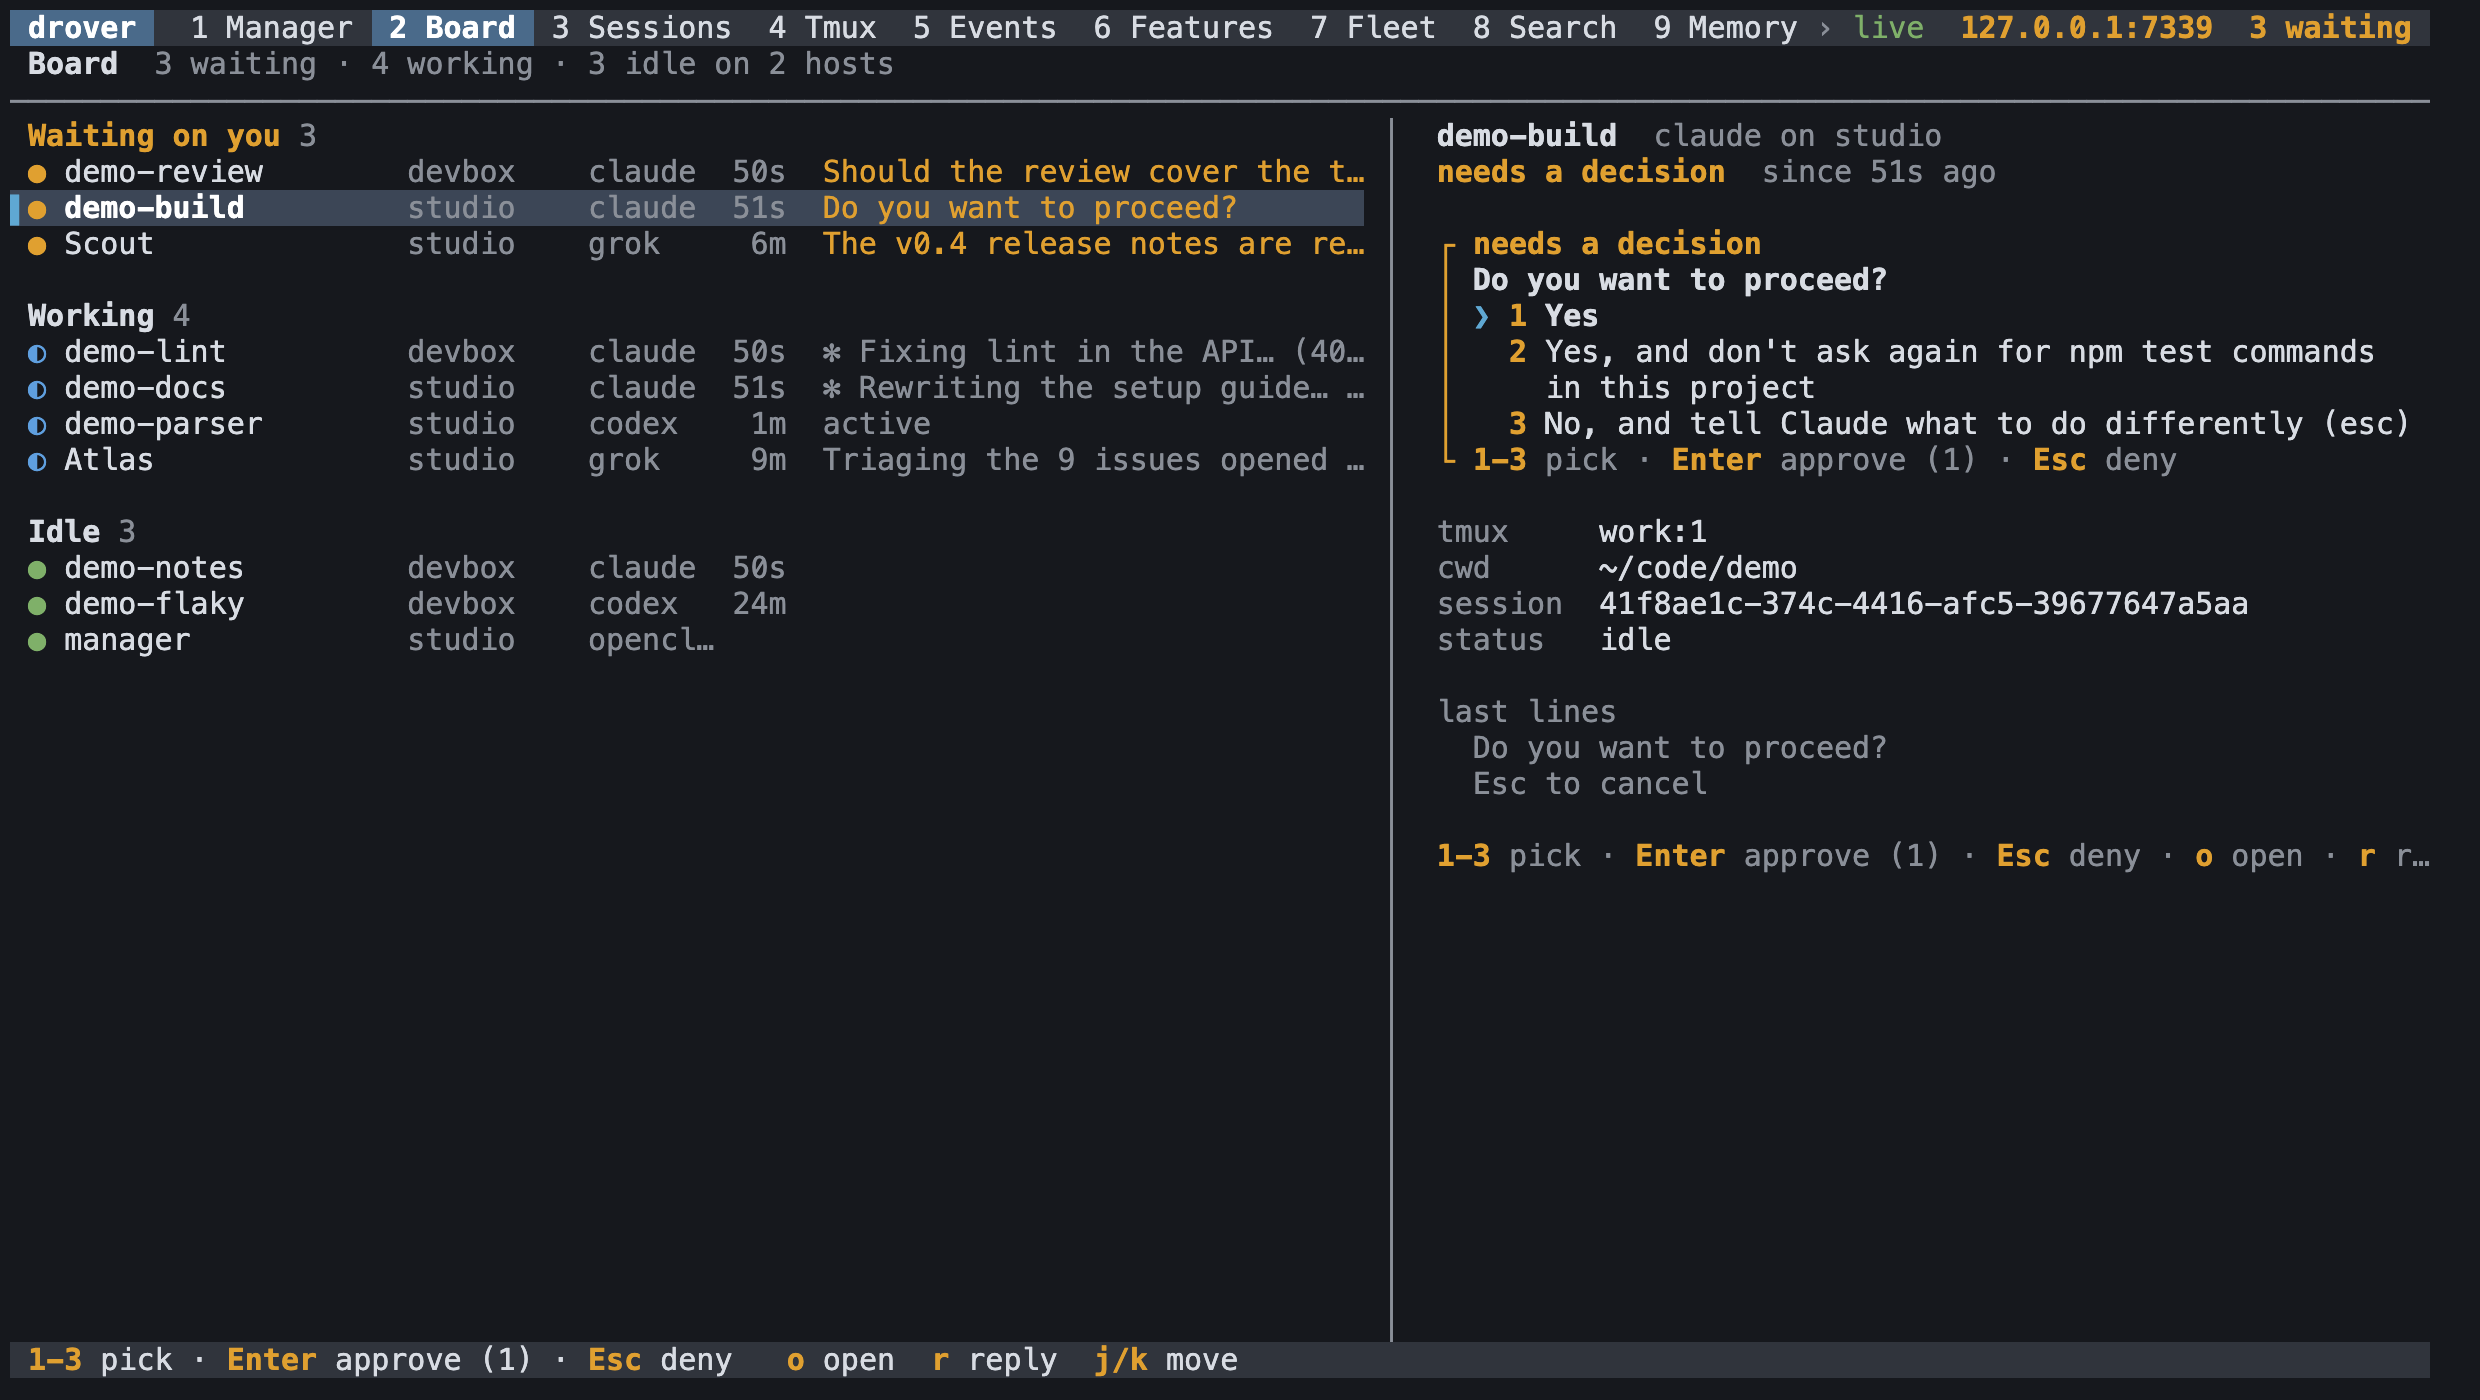
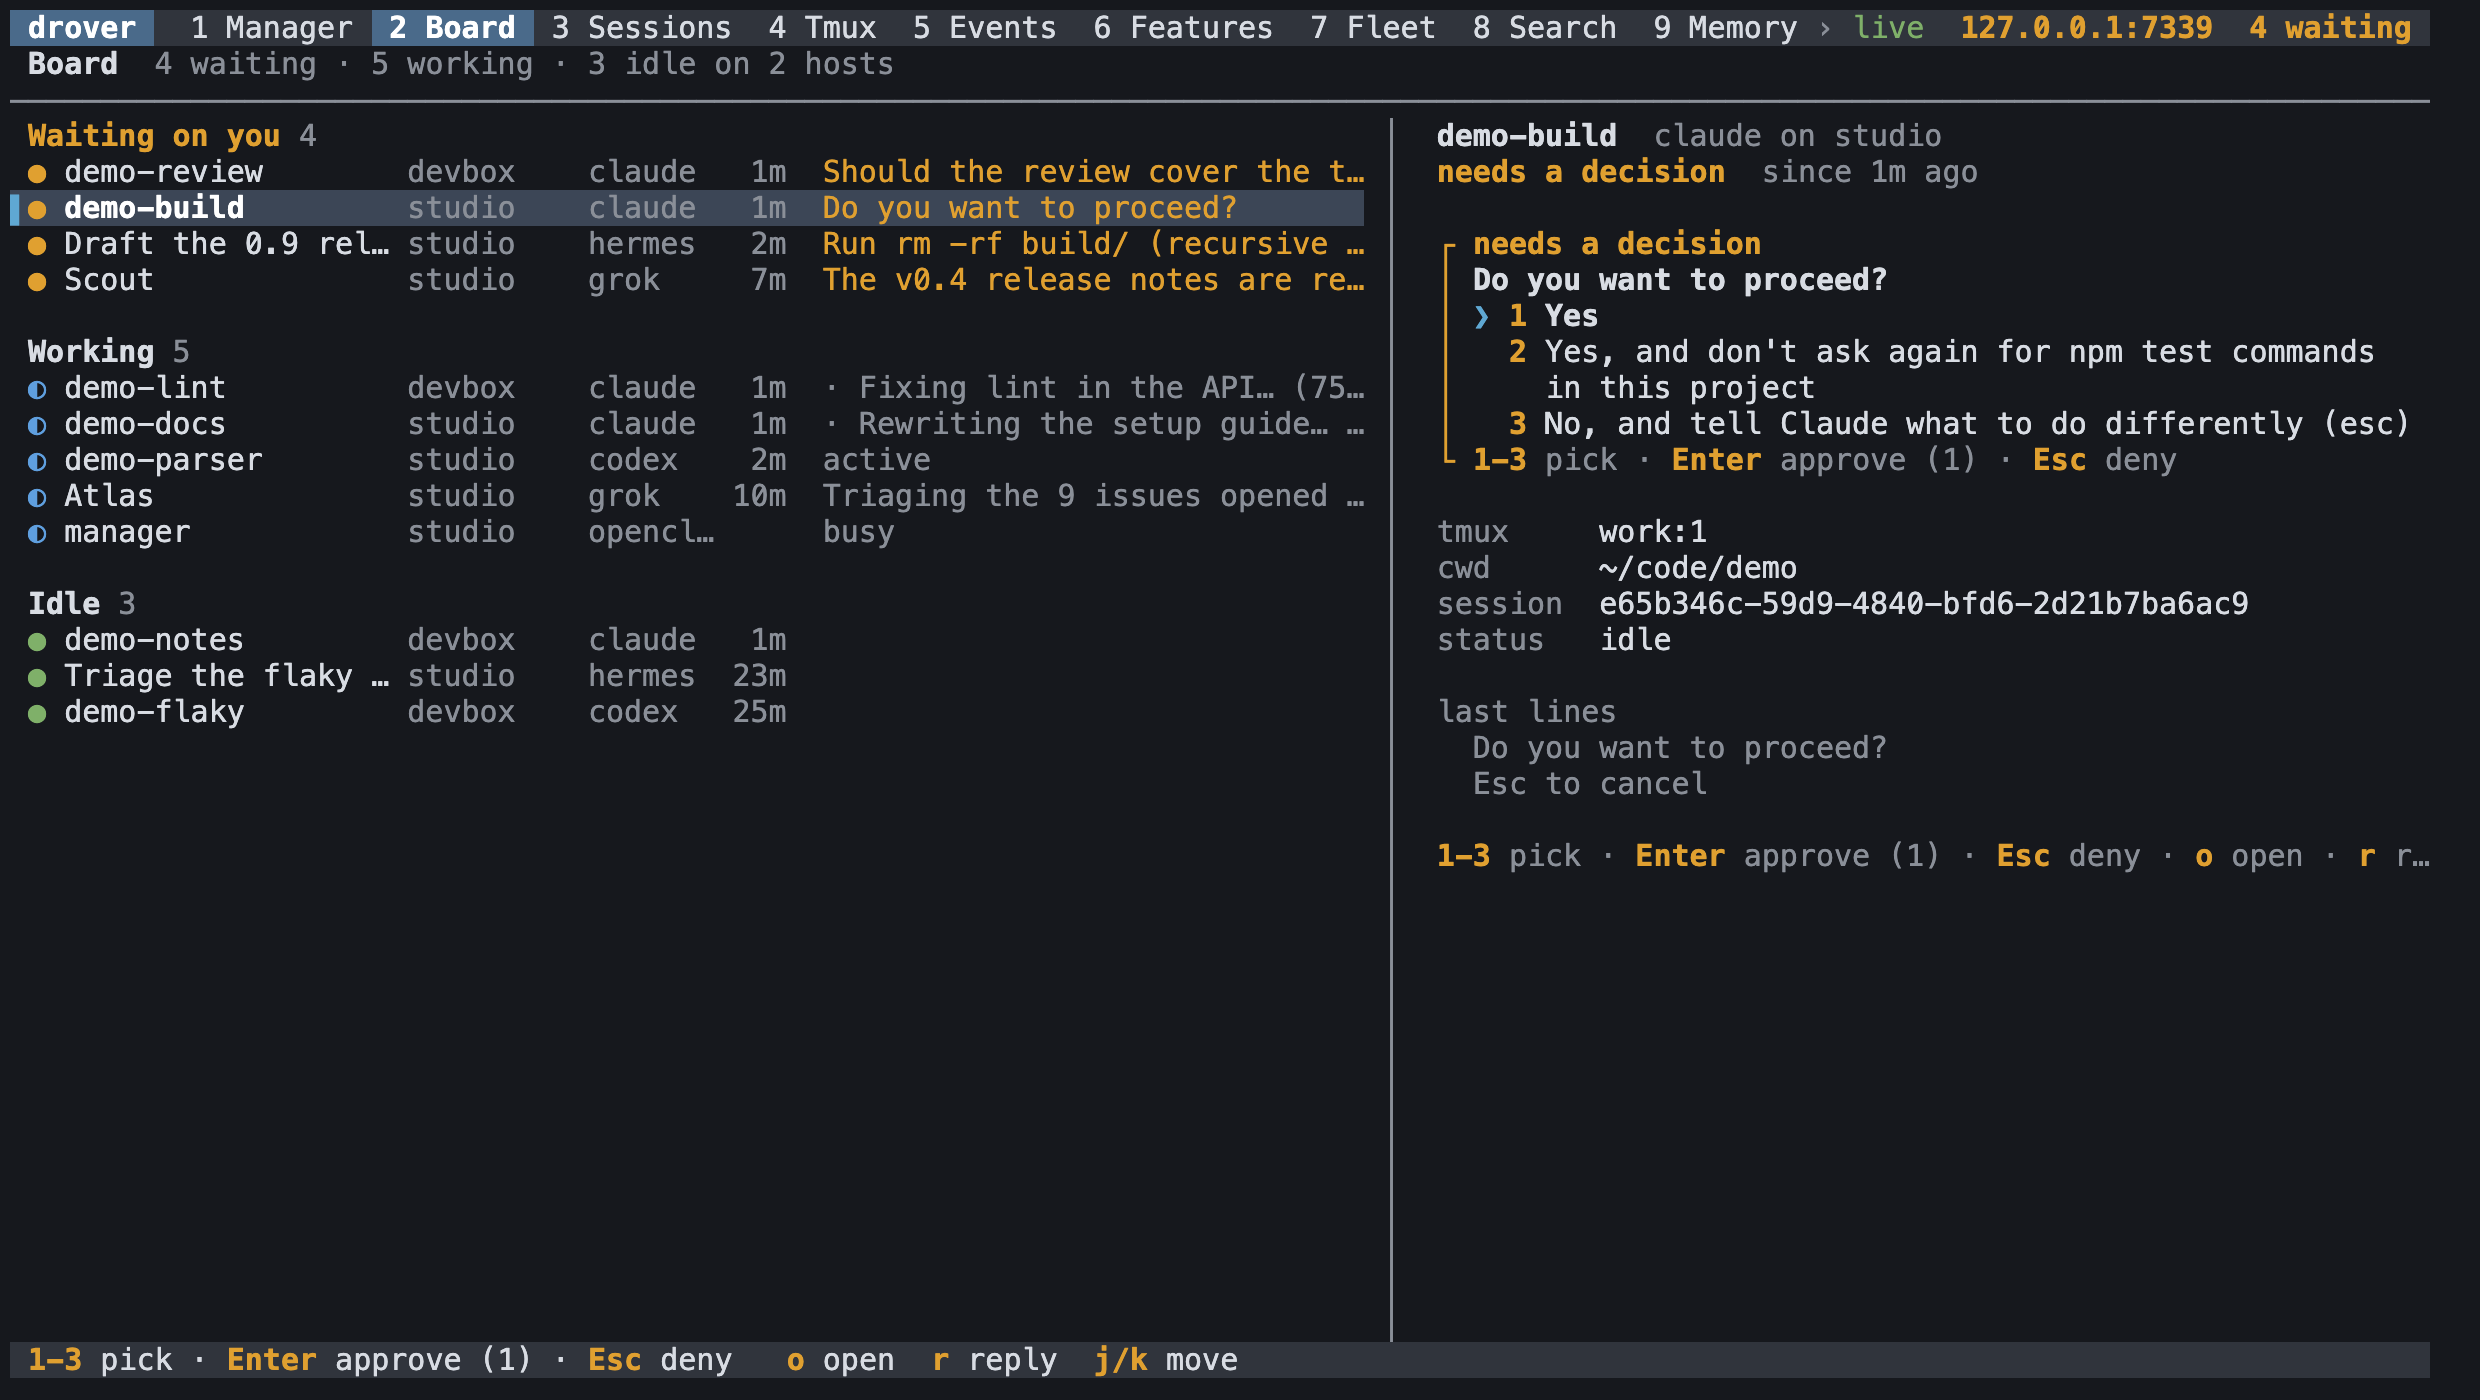
docs(screenshots): Hermes in the showcase world and the pictures
The showcase world runs a pretend Hermes gateway on studio (as a service,
so its live state is read with no Hermes client running): one session
waiting on an approval with real-looking history, one idle. The web, TUI
and CLI pictures are taken again with it, the manager's canned answer
names it, and the README shows a Hermes session in the drawer.

diff --git a/web/test/showcase/world.js b/web/test/showcase/world.js
@@ -1,16 +1,18 @@
 // The showcase world: what test/devworld.js --showcase builds on top of the dev world, for screenshots and demos of
 // every client. Three hosts: studio runs the daemon, devbox is reached through the stand-in ssh (fake-ssh.js) and
 // spare is down. Every engine Drover drives: Claude Code sessions in tmux (test/fake-agent.js), Codex threads
-// (fake-codex.js), two Grok bots and the OpenClaw manager (test/fake-gateway.js). Docker compose stacks (fake-docker.js,
+// (fake-codex.js), two Grok bots, the OpenClaw manager (test/fake-gateway.js) and two Hermes Agent sessions on studio,
+// one waiting on an approval (test/fake-hermes.js). Docker compose stacks (fake-docker.js,
 // from test/fixtures/docker-inspect.jsonl, with git checkouts behind them) and a truth file with features, notes,
 // launches and messages. It all runs on this machine under one directory, with a HOME of its own; every name and every
 // line in it is invented.
 import { mkdirSync, mkdtempSync, writeFileSync, readFileSync } from 'node:fs';
 import { spawnSync } from 'node:child_process';
-import { randomUUID } from 'node:crypto';
 import path from 'node:path';
 import { fileURLToPath } from 'node:url';
 import { uuidv7 } from '../../core/ids.js';
+import { randomUUID, createHash } from 'node:crypto';
+import { makeHome } from '../fake-hermes.js';
 
 const HERE = path.dirname(fileURLToPath(import.meta.url));
 const FIXTURE = path.join(HERE, '..', 'fixtures', 'docker-inspect.jsonl');
@@ -59,7 +61,7 @@ const CODEX = {
 
 /** What the manager (the fake gateway) answers, in turn: about this world, so a reply matches the board beside it. */
 export const REPLIES = [
-  'Three things are waiting on you: **demo-build** on studio wants to run `npm test` (a permission prompt), **demo-review** on devbox asked whether the review should cover the test fixtures, and the Grok bot **Scout** wants your OK to publish the v0.4 release notes.\n\nEverything else is moving: demo-docs is rewriting the setup guide, demo-lint is fixing lint on devbox, and the Codex thread demo-parser is running the parser tests.',
+  'Four things are waiting on you: **demo-build** on studio wants to run `npm test` (a permission prompt), **demo-review** on devbox asked whether the review should cover the test fixtures, the Hermes session **Draft the 0.9 release notes** wants to run `rm -rf build/`, and the Grok bot **Scout** wants your OK to publish the v0.4 release notes.\n\nEverything else is moving: demo-docs is rewriting the setup guide, demo-lint is fixing lint on devbox, and the Codex thread demo-parser is running the parser tests.',
   'Since your last look: demo-notes finished reorganising the notes, the Codex thread demo-flaky fixed the flaky checkout test and asks whether to open a pull request, and the `webapp` stack on studio has one unhealthy service (web-app-reports fails its health check).',
   'studio and devbox answer; spare has not answered ssh since this morning. studio runs 2 Claude Code sessions, a Codex thread, both Grok bots and me; devbox runs 3 Claude Code sessions and a Codex thread.',
 ];
@@ -114,6 +116,8 @@ export function prepare({ dir, root, base, home = path.join(dir, 'home'), now = 
   // ---- the hosts: the front one is this daemon, the others answer through the stand-in ssh
   const env = (name, hostDir) => ({
     HOME: home, DROVER_HOST: name, DROVER_VITALS: 'off',
+    // Hermes lives on studio, in its HOME; another host names a home of its own that does not exist, so it lists none.
+    HERMES_HOME: hostDir ? path.join(hostDir, 'hermes') : path.join(home, '.hermes'),
     DROVER_DOCKER: path.join(bin, 'docker'), DEVWORLD_CONTAINERS: path.join(dir, `containers-${name}.jsonl`),
     DROVER_DOCKER_KINDS: JSON.stringify([{ kind: 'app', match: '^web-app-', label: 'apps' }, { kind: 'ml', match: '^web-ml-', label: 'ML' }, { kind: 'core', match: '^web-' }]),
     // Another host runs no manager: its state dir is its own and empty, so the HOME it shares with studio (where
@@ -194,8 +198,38 @@ export function prepare({ dir, root, base, home = path.join(dir, 'home'), now = 
   const hostsFile = path.join(dir, 'hosts.json');
   writeFileSync(hostsFile, JSON.stringify({ drover: path.join(root, 'bin', 'drover'), hosts: Object.fromEntries(remotes.map((r) => [r.name, r.down ? { down: r.down } : { settings: r.settings }])) }, null, 1), { mode: 0o600 });
 
+  // ---- Hermes on studio: its state.db (what the daemon reads) and what its gateway holds live (devworld starts it)
+  const hermesHome = path.join(home, '.hermes');
+  const at = (minutesAgo) => now / 1000 - minutesAgo * 60;
+  // Ids shaped like Hermes' own ("local-" and 64 hex), made from a word so every run has the same ones.
+  const hermesId = (word) => `local-${createHash('sha256').update(`showcase ${word}`).digest('hex')}`;
+  const release = hermesId('release'), triage = hermesId('triage');
+  const call = (id, name, args) => [{ id, function: { name, arguments: JSON.stringify(args) } }];
+  makeHome(hermesHome, {
+    sessions: [
+      { id: release, title: 'Draft the 0.9 release notes', cwd: path.join(home, 'code', 'demo'), model: 'claude-sonnet-5-5', started_at: at(9), last_activity_at: at(1), message_count: 8 },
+      { id: triage, title: 'Triage the flaky tests', cwd: path.join(home, 'code', 'demo'), model: 'claude-haiku-5-5', started_at: at(30), last_activity_at: at(22), message_count: 2 },
+    ],
+    messages: [
+      { session_id: release, role: 'user', content: 'Draft the 0.9 release notes from what merged since 0.8, then clean out the build folder.', timestamp: at(9) },
+      { session_id: release, role: 'assistant', content: '', tool_calls: call('c1', 'terminal', { command: 'git log --oneline v0.8..HEAD' }), timestamp: at(8.5) },
+      { session_id: release, role: 'tool', tool_call_id: 'c1', content: JSON.stringify({ output: 'a41c2e9 feat(lexer): line numbers in errors\n7f30b18 feat(parser): trailing commas\n2c9d0aa fix(cli): exit code on a parse error', exit_code: 0, error: null }), timestamp: at(8.4) },
+      { session_id: release, role: 'assistant', content: '', tool_calls: call('c2', 'write_file', { path: 'docs/release-notes-0.9.md', content: '...' }), timestamp: at(6) },
+      { session_id: release, role: 'tool', tool_call_id: 'c2', content: JSON.stringify({ output: 'wrote 34 lines', exit_code: 0, error: null }), timestamp: at(5.9) },
+      { session_id: release, role: 'assistant', content: 'The notes are in `docs/release-notes-0.9.md`: two features (line numbers in errors, trailing commas) and one fix. Now the build folder.', timestamp: at(2) },
+      { session_id: release, role: 'assistant', content: '', tool_calls: call('c3', 'terminal', { command: 'rm -rf build/' }), timestamp: at(1) },
+      { session_id: triage, role: 'user', content: 'Which tests failed most this week?', timestamp: at(30) },
+      { session_id: triage, role: 'assistant', content: 'Three: trailing commas in the parser (4 runs), lexer line numbers (2) and the docs link checker (1). The first two share one fixture, so I would fix that first.', timestamp: at(22) },
+    ],
+  });
+  const hermes = { home: hermesHome, live: {
+    [release]: { status: 'waiting', title: 'Draft the 0.9 release notes', prompts: [{ kind: 'approval', prompt_id: 'showcase-approval-1', execution_generation: 1, command: 'rm -rf build/', description: 'recursive delete', choices: ['once', 'deny', 'session', 'always'], timeout_s: 300 }] },
+    [triage]: { status: 'idle', title: 'Triage the flaky tests' },
+  } };
+
   return {
     home,
+    hermes,
     front: { name: front.name, agents: front.agents.map((a) => ({ ...a, cwd: path.join(home, a.cwd) })), env: env(front.name, null) },
     remotes: remotes.filter((r) => !r.down),
     hostsFile,

diff --git a/web/test/devworld.js b/web/test/devworld.js
@@ -17,6 +17,7 @@ import { randomUUID } from 'node:crypto';
 import path from 'node:path';
 import { fileURLToPath } from 'node:url';
 import { startFakeGateway } from './fake-gateway.js';
+import { startFakeHermes } from './fake-hermes.js';
 
 const HERE = path.dirname(fileURLToPath(import.meta.url));
 const ROOT = path.join(HERE, '..');
@@ -183,6 +184,8 @@ for (const r of remotes) {
 
 // ------------------------------------------------------------ gateway and daemon
 const gateway = await startFakeGateway({ port: GW, token: 'dev', ...(show ? { replies: show.replies } : {}) });
+// The showcase's Hermes gateway: run as a service would be (not --idle-exit), so the daemon reads its live state with no Hermes client running.
+const hermesGw = show?.hermes ? await startFakeHermes(show.hermes.home, { live: show.hermes.live, idleExit: false }) : null;
 const env = {
   ...tmuxEnv,
   DROVER_STATE: path.join(DIR, 'state'), DROVER_CACHE: path.join(DIR, 'cache'), DROVER_SHARE: path.join(DIR, 'share'),
@@ -208,6 +211,7 @@ async function stop(code = 0) {
   // A shell that sourced env.sh keeps the stand-in ssh: once stopped, it knows no host.
   try { writeFileSync(path.join(DIR, 'hosts.json'), JSON.stringify({ drover: path.join(ROOT, 'bin', 'drover'), hosts: {} }), { mode: 0o600 }); } catch { /* gone */ }
   await gateway.close().catch(() => {});
+  await hermesGw?.close().catch(() => {});
   process.exit(code);
 }
 process.on('SIGINT', () => stop(0));

diff --git a/README.md b/README.md
@@ -66,6 +66,9 @@ terminals and search.
   <img alt="A Codex thread in the drawer: its shell calls and replies" src="docs/screenshots/web-codex-dark.png" width="49%">
   <img alt="A Grok bot in the drawer: the message it was sent, its status reports and its reply asking for approval" src="docs/screenshots/web-grok-dark.png" width="49%">
 </p>
+<p>
+  <img alt="A Hermes Agent session in the drawer: its terminal and file calls, its reply, and the approval it waits on with the choices numbered as the Hermes TUI numbers them" src="docs/screenshots/web-hermes-dark.png" width="49%">
+</p>
 
 ### Terminal UI and CLI
 
